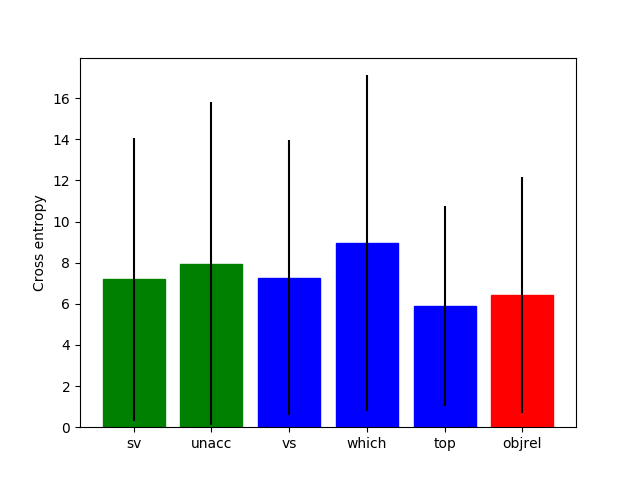
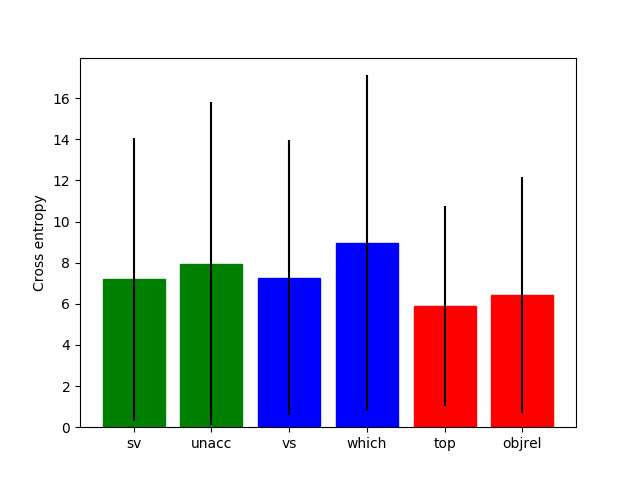
stimuli with sing/plur masc/feni

Changed region(s): [[0.625, 0.625, 0.75, 0.9062]]

diff --git a/code/plot_perplexities.py b/code/plot_perplexities.py
@@ -6,7 +6,7 @@ path2results = '../results/behavioral/'
 path2figures = '../figures/perplexities/'
 num_sentences = 100
 sentence_types = ['sv', 'unacc', 'vs', 'which', 'top', 'objrel']
-colors = ['g', 'g', 'b', 'b', 'b', 'r']
+colors = ['g', 'g', 'b', 'b', 'r', 'r']
 
 mean_ppls, std_ppls = [], []
 fig_per_word, axs = plt.subplots(len(sentence_types), 1, figsize=(10, 20))
